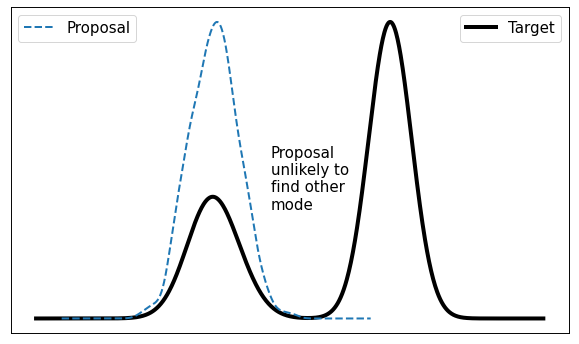
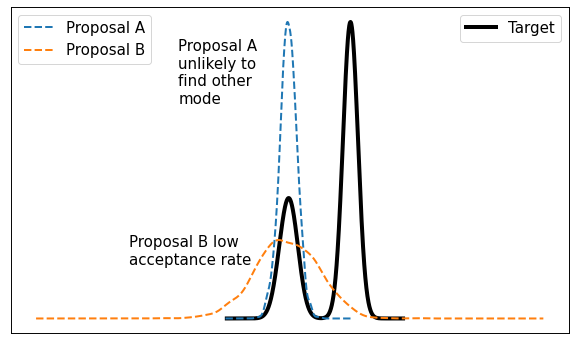
fixing up hmc motivation diagram.

Changed region(s): [[0.0622, 0.0581, 0.9637, 0.9302], [0.0311, 0.0581, 0.2487, 0.2035], [0.0933, 0.0581, 0.1554, 0.0872]]

diff --git a/source/posts/hamiltonian-monte-carlo.rst b/source/posts/hamiltonian-monte-carlo.rst
@@ -151,7 +151,9 @@ idea.
   :alt: Bimodal distribution
   :align: center
 
-  **Figure 2: Difficult to reach other modes with a random walk MH algorithm.**
+  **Figure 2: It's difficult to calibrate random walk MH algorithms**
+
+**TODO**: ADD LOW ACCETPANCE RATE HERE
 
 From Figure 2, consider a bimodal distribution with a random walk MH algorithm.
 If you start in one of the modes (left side), you may get "stuck" in that mode
